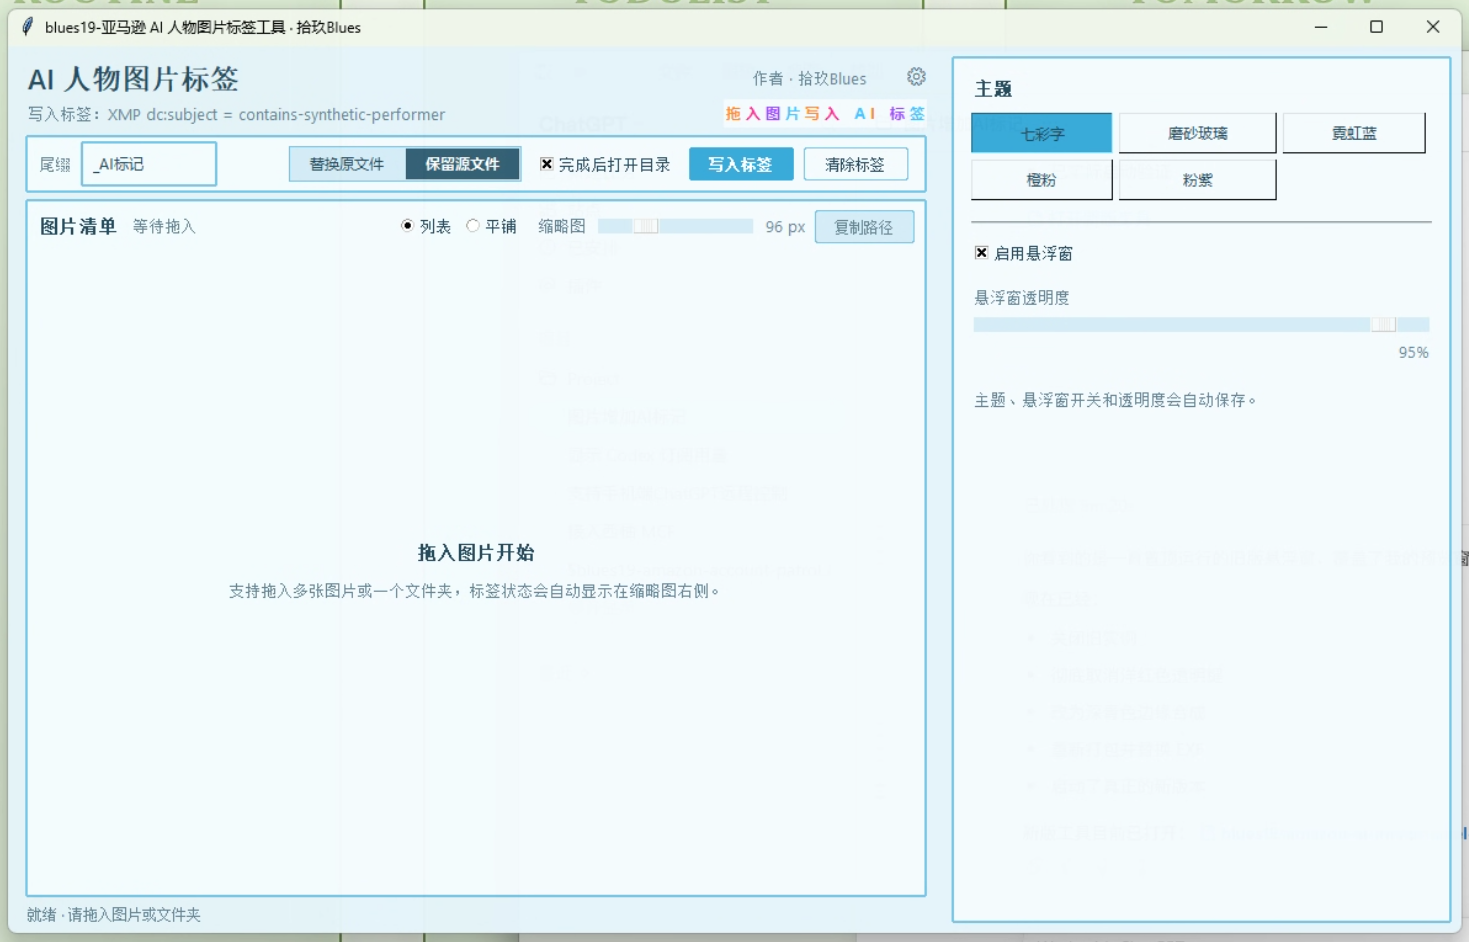
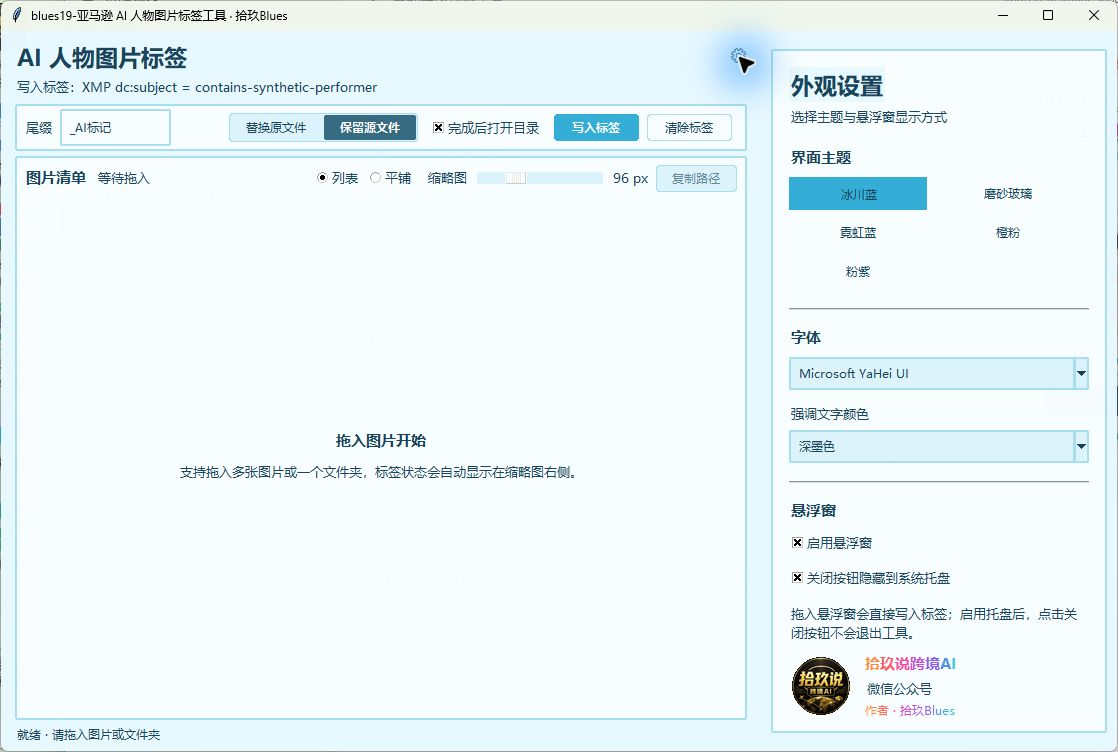
feat: release v1.1.0 with system tray support

diff --git a/blues19-app.py b/blues19-app.py
@@ -18,8 +18,14 @@ from tkinter import filedialog, font as tkfont, ttk
 from PIL import Image, ImageDraw, ImageFont, ImageTk
 from tkinterdnd2 import DND_FILES, TkinterDnD
 
+try:
+    import pystray
+except ImportError:
+    pystray = None
+
 
 TAG = "contains-synthetic-performer"
+APP_VERSION = "1.1.0"
 DEFAULT_SUFFIX = "_AI标记"
 EXTENSIONS = {".jpg", ".jpeg", ".png", ".webp", ".tif", ".tiff"}
 APP_DIR = Path(__file__).resolve().parent
@@ -644,7 +650,9 @@ class App(TkinterDnD.Tk):
                 self.tk.call("tk", "scaling", max(1.0, dpi / 72.0))
             except (AttributeError, OSError, tk.TclError):
                 pass
-        self.title("blues19-亚马逊 AI 人物图片标签工具 · 拾玖Blues")
+        self.title(
+            f"blues19-亚马逊 AI 人物图片标签工具 v{APP_VERSION} · 拾玖Blues"
+        )
         self.geometry("760x720")
         self.minsize(720, 580)
         saved_settings = self._load_settings()
@@ -664,6 +672,9 @@ class App(TkinterDnD.Tk):
         )
         self.FONT_FAMILY = self.font_family.get()
         self.bubble_enabled = tk.BooleanVar(value=bool(saved_settings.get("bubble_enabled", True)))
+        self.tray_on_close = tk.BooleanVar(
+            value=bool(saved_settings.get("tray_on_close", False))
+        )
         self._apply_theme_tokens(theme_id)
         self._apply_text_tokens()
         self.configure(background=self.CANVAS)
@@ -686,8 +697,12 @@ class App(TkinterDnD.Tk):
         self.result_tree: ttk.Treeview | None = None
         self.busy = False
         self.task_queue: Queue[tuple[str, object]] = Queue()
+        self.tray_actions: Queue[str] = Queue()
         self.thumb_after_id: str | None = None
         self.settings_expanded = False
+        self.tray_icon = None
+        self.tray_poll_after_id: str | None = None
+        self._quitting = False
         self._configure_style()
         self._build_ui()
         self._apply_gradient_labels(self)
@@ -704,6 +719,7 @@ class App(TkinterDnD.Tk):
             self.drop_bubble.withdraw()
         self.bind("<Control-c>", lambda _event: self.copy_paths())
         self.bind("<Escape>", lambda _event: self.focus_set())
+        self.protocol("WM_DELETE_WINDOW", self.on_close_request)
 
     def _load_settings(self) -> dict:
         try:
@@ -722,6 +738,7 @@ class App(TkinterDnD.Tk):
                         "accent_text": self.accent_text.get(),
                         "text_color_version": 2,
                         "bubble_enabled": self.bubble_enabled.get(),
+                        "tray_on_close": self.tray_on_close.get(),
                     },
                     ensure_ascii=False,
                     indent=2,
@@ -1096,7 +1113,7 @@ class App(TkinterDnD.Tk):
         panel.place(x=770, y=18, width=settings_width - 20, relheight=1, height=-36)
         self.settings_panel = panel
         panel.columnconfigure(0, weight=1)
-        panel.rowconfigure(13, weight=1)
+        panel.rowconfigure(14, weight=1)
         ttk.Label(panel, text="外观设置", style="Header.TLabel").grid(
             row=0, column=0, sticky="w"
         )
@@ -1172,21 +1189,29 @@ class App(TkinterDnD.Tk):
             command=self.on_bubble_enabled,
             style="Surface.TCheckbutton",
         ).grid(row=11, column=0, sticky="w")
+        ttk.Checkbutton(
+            panel,
+            text="关闭按钮隐藏到系统托盘",
+            variable=self.tray_on_close,
+            command=self.on_tray_on_close_change,
+            style="Surface.TCheckbutton",
+        ).grid(row=12, column=0, sticky="w", pady=(10, 0))
         ttk.Label(
             panel,
-            text="拖入图片后会直接写入标签，成功时显示绿色灯效。",
+            text="拖入悬浮窗会直接写入标签；启用托盘后，点击关闭按钮不会退出工具。",
             style="SurfaceMuted.TLabel",
             wraplength=290,
-        ).grid(row=12, column=0, sticky="w", pady=(14, 0))
+        ).grid(row=13, column=0, sticky="w", pady=(12, 0))
 
         brand = ttk.Frame(panel, style="Surface.TFrame")
-        brand.grid(row=14, column=0, sticky="ew", pady=(18, 0))
+        brand.grid(row=15, column=0, sticky="ew", pady=(10, 0))
+        self.settings_brand = brand
         logo_path = RESOURCE_DIR / "blues19-brand-logo.png"
         try:
             with Image.open(logo_path) as source_logo:
-                logo = source_logo.convert("RGBA").resize((76, 76), Image.Resampling.LANCZOS)
+                logo = source_logo.convert("RGBA").resize((60, 60), Image.Resampling.LANCZOS)
             mask = Image.new("L", logo.size, 0)
-            ImageDraw.Draw(mask).ellipse((1, 1, 74, 74), fill=255)
+            ImageDraw.Draw(mask).ellipse((1, 1, 58, 58), fill=255)
             logo.putalpha(mask)
             self.brand_logo_photo = ImageTk.PhotoImage(logo)
             ttk.Label(brand, image=self.brand_logo_photo, style="Surface.TLabel").pack(
@@ -1302,6 +1327,149 @@ class App(TkinterDnD.Tk):
         else:
             self.drop_bubble.withdraw()
         self._save_settings()
+
+    def on_tray_on_close_change(self) -> None:
+        self._save_settings()
+
+    def _tray_icon_image(self, size: int = 64) -> Image.Image:
+        scale = size / 88
+        artwork = Image.new("RGBA", (size, size), (0, 0, 0, 0))
+        draw = ImageDraw.Draw(artwork)
+        draw.ellipse(
+            (2 * scale, 2 * scale, size - 2 * scale, size - 2 * scale),
+            fill=self.ACTION_SOFT,
+            outline=self.ACTION,
+            width=max(2, round(2 * scale)),
+        )
+        draw.ellipse(
+            (5 * scale, 5 * scale, size - 5 * scale, size - 5 * scale),
+            fill=self.ACTIVE,
+            outline="#67D9F5",
+            width=max(2, round(2 * scale)),
+        )
+        center = size / 2
+        for index in range(24):
+            angle = math.radians(index * 15)
+            outer_radius = 39 * scale
+            inner_radius = (35 if index % 3 else 33) * scale
+            draw.line(
+                (
+                    center + math.cos(angle) * inner_radius,
+                    center + math.sin(angle) * inner_radius,
+                    center + math.cos(angle) * outer_radius,
+                    center + math.sin(angle) * outer_radius,
+                ),
+                fill=self.ACTION,
+                width=max(1, round(scale)),
+            )
+        inner = 13 * scale
+        draw.ellipse(
+            (inner, inner, size - inner, size - inner),
+            fill="#071D2B",
+            outline="#7DE8FF",
+            width=max(2, round(2 * scale)),
+        )
+        font_path = Path(os.environ.get("WINDIR", r"C:\Windows")) / "Fonts" / "segoeuib.ttf"
+        try:
+            tray_font = ImageFont.truetype(str(font_path), round(20 * scale))
+        except OSError:
+            tray_font = ImageFont.load_default()
+        draw.text(
+            (center, center),
+            "AI",
+            fill="#62D9FF",
+            font=tray_font,
+            anchor="mm",
+        )
+        return artwork
+
+    def _ensure_tray_icon(self) -> bool:
+        if self.tray_icon is not None:
+            return True
+        if pystray is None:
+            return False
+        menu = pystray.Menu(
+            pystray.MenuItem("显示主面板", self._request_show_from_tray, default=True),
+            pystray.MenuItem("退出工具", self._request_exit_from_tray),
+        )
+        self.tray_icon = pystray.Icon(
+            "blues19-ai-image-label-tool",
+            self._tray_icon_image(),
+            "blues19 AI 人物图片标签",
+            menu,
+        )
+        try:
+            self.tray_icon.run_detached()
+        except Exception:
+            self.tray_icon = None
+            return False
+        self.tray_poll_after_id = self.after(100, self._poll_tray_actions)
+        return True
+
+    def _stop_tray_icon(self) -> None:
+        if self.tray_poll_after_id is not None:
+            try:
+                self.after_cancel(self.tray_poll_after_id)
+            except tk.TclError:
+                pass
+            self.tray_poll_after_id = None
+        icon = self.tray_icon
+        self.tray_icon = None
+        if icon is not None:
+            try:
+                icon.stop()
+            except Exception:
+                pass
+
+    def _request_show_from_tray(self, _icon=None, _item=None) -> None:
+        self.tray_actions.put("show")
+
+    def _request_exit_from_tray(self, _icon=None, _item=None) -> None:
+        self.tray_actions.put("exit")
+
+    def _poll_tray_actions(self) -> None:
+        self.tray_poll_after_id = None
+        if self._quitting:
+            return
+        try:
+            while True:
+                action = self.tray_actions.get_nowait()
+                if action == "show":
+                    self.restore_from_tray()
+                elif action == "exit":
+                    self.quit_app()
+                    return
+        except Empty:
+            pass
+        if self.tray_icon is not None:
+            self.tray_poll_after_id = self.after(100, self._poll_tray_actions)
+
+    def hide_to_tray(self) -> None:
+        if not self._ensure_tray_icon():
+            self.status.set("系统托盘组件不可用 · 已最小化到任务栏")
+            self.iconify()
+            return
+        self.withdraw()
+
+    def restore_from_tray(self) -> None:
+        self.deiconify()
+        self.lift()
+        self.focus_force()
+        self._stop_tray_icon()
+        self.status.set("已从系统托盘恢复")
+
+    def on_close_request(self) -> None:
+        if self.tray_on_close.get():
+            self.hide_to_tray()
+        else:
+            self.quit_app()
+
+    def quit_app(self) -> None:
+        if self._quitting:
+            return
+        self._quitting = True
+        self._stop_tray_icon()
+        self.destroy()
 
     def _gradient_text_photo(self, text: str) -> ImageTk.PhotoImage:
         scale = 3

diff --git a/tests/test_core.py b/tests/test_core.py
@@ -121,6 +121,50 @@ class ImageFilesTests(unittest.TestCase):
         finally:
             root.destroy()
 
+    def test_close_button_routes_to_tray_only_when_enabled(self):
+        root = app.App()
+        try:
+            root.update()
+            root.tray_on_close.set(True)
+            with mock.patch.object(root, "hide_to_tray") as hide:
+                root.on_close_request()
+            hide.assert_called_once_with()
+
+            root.tray_on_close.set(False)
+            with mock.patch.object(root, "quit_app") as quit_app:
+                root.on_close_request()
+            quit_app.assert_called_once_with()
+        finally:
+            if root.winfo_exists():
+                root.quit_app()
+
+    def test_tray_icon_uses_floating_bubble_visual_language(self):
+        root = app.App()
+        try:
+            root.update()
+            icon = root._tray_icon_image()
+            self.assertEqual(icon.size, (64, 64))
+            self.assertEqual(icon.mode, "RGBA")
+            self.assertGreater(icon.getpixel((32, 32))[3], 0)
+            self.assertEqual(icon.getpixel((0, 0))[3], 0)
+        finally:
+            if root.winfo_exists():
+                root.quit_app()
+
+    def test_settings_brand_stays_inside_panel_at_default_height(self):
+        root = app.App()
+        try:
+            root.geometry("760x720")
+            root.update()
+            root._show_settings_panel()
+            root.update()
+            brand_bottom = root.settings_brand.winfo_rooty() + root.settings_brand.winfo_height()
+            panel_bottom = root.settings_panel.winfo_rooty() + root.settings_panel.winfo_height()
+            self.assertLessEqual(brand_bottom, panel_bottom)
+        finally:
+            if root.winfo_exists():
+                root.quit_app()
+
     @unittest.skipUnless(EXIFTOOL.exists(), "ExifTool is not installed")
     def test_replace_source_renames_original(self):
         with tempfile.TemporaryDirectory() as tmp:

diff --git a/README.md b/README.md
@@ -8,6 +8,15 @@ XMP dc:subject = contains-synthetic-performer
 
 作者：拾玖Blues
 公众号：拾玖说跨境AI
+当前版本：v1.1.0
+
+## v1.1.0 更新
+
+- 新增“关闭按钮隐藏到系统托盘”，默认关闭，可在设置中启用。
+- 托盘图标沿用科技蓝悬浮窗视觉，支持恢复主面板和真正退出工具。
+- 修复设置面板底部品牌 LOGO 在默认窗口高度下被裁切的问题。
+- Release 单文件 EXE 内置托盘依赖，Windows 10/11 无需另行安装组件。
+- 新增关闭行为、托盘图标和设置面板布局回归测试。
 
 ## 为什么做这个工具
 
@@ -68,6 +77,7 @@ XMP dc:subject = contains-synthetic-performer
 - 字体：默认使用微软雅黑，也可选择其他可用字体。
 - 文字颜色：应用到整个操作面板；公众号和作者署名保持七彩渐变效果。
 - 悬浮窗：控制是否启用圆形快速写入入口。
+- 系统托盘：可启用“关闭按钮隐藏到系统托盘”；托盘图标沿用科技蓝悬浮圆窗样式，右键可显示主面板或真正退出工具。
 - 设置会自动保存，下次启动继续使用。
 
 ## 功能
@@ -92,6 +102,8 @@ XMP dc:subject = contains-synthetic-performer
 - 标题栏、滚动条、输入框和下拉框跟随主题。
 - 支持字体与面板文字颜色设置，默认微软雅黑和深墨色。
 - 设置面板展示“拾玖说跨境AI”品牌 LOGO 与作者信息。
+- 可选择点击关闭按钮时隐藏到 Windows 系统托盘，而不是退出程序。
+- 系统托盘菜单支持“显示主面板”和“退出工具”。
 
 ## 下载与运行
 
@@ -108,6 +120,8 @@ Get-FileHash .\blues19-amazon-ai-image-label-tool.exe -Algorithm SHA256
 ```
 
 确认输出与校验文件中的 SHA-256 一致后，直接双击 EXE 运行。
+
+Release 提供的是单文件 Windows EXE，已打包 Tcl/Tk、tkinterdnd2、pystray、Pillow 和 ExifTool。其他 Windows 10/11 电脑无需另外安装 Python、Tk 或托盘组件。
 
 如果从源码运行，双击：
 
@@ -139,6 +153,15 @@ blues19-启动工具.cmd
 4. 写入并核验成功后，悬浮窗会短暂显示绿色圆环和勾号。
 
 悬浮窗支持拖动；双击或右键悬浮窗可以唤回主窗口。
+
+### 隐藏到系统托盘
+
+1. 点击右上角齿轮打开设置。
+2. 启用“关闭按钮隐藏到系统托盘”。
+3. 点击窗口右上角关闭按钮，主面板会隐藏到电脑右下角系统托盘。
+4. 双击托盘图标或在右键菜单选择“显示主面板”即可恢复；选择“退出工具”才会真正结束程序。
+
+该选项默认关闭，以保持原有的关闭即退出行为。
 
 ## 两种输出模式
 
@@ -175,12 +198,13 @@ blues19-启动工具.cmd
 - Python 3.12
 - Pillow
 - tkinterdnd2
+- pystray
 - PyInstaller
 
 安装 Python 依赖：
 
 ```powershell
-python -m pip install Pillow tkinterdnd2 pyinstaller
+python -m pip install Pillow tkinterdnd2 pystray pyinstaller
 ```
 
 运行测试：
